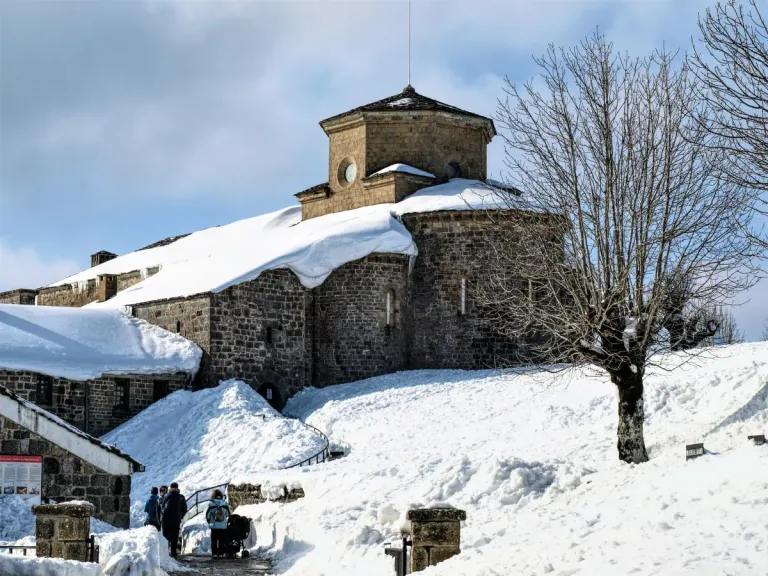
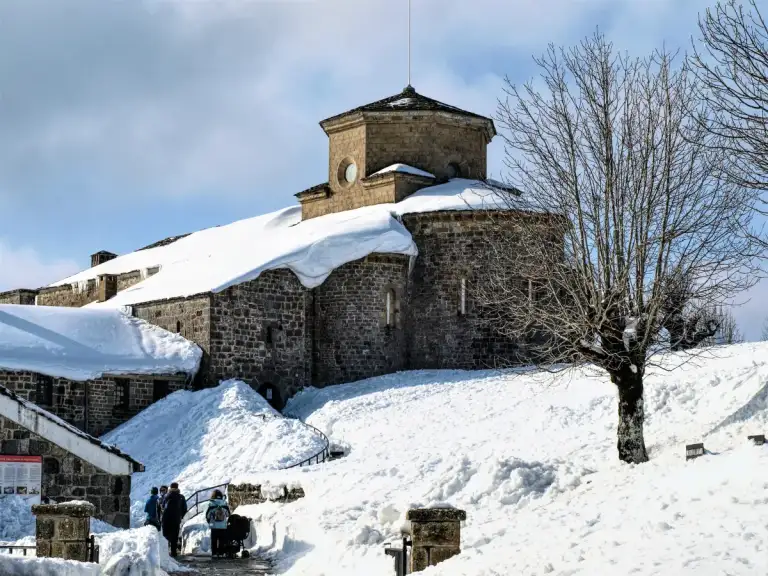
test progressive images

diff --git a/docs/.vitepress/theme/components/Image.vue b/docs/.vitepress/theme/components/Image.vue
@@ -5,6 +5,7 @@ const props = defineProps({
   src: { type: String, required: true },
   alt: { type: String, default: "" },
   index: { type: Number, default: 0 },
+  progressive: { type: Boolean, default: true },
   class: { type: String, default: "" },
 });
 
@@ -22,11 +23,34 @@ const srcset = computed(() =>
   /media/md/${basePath.value} 768w,
   /media/lg/${basePath.value} 1080w`.trim(),
 );
+
+function improveImage(e) {
+  const elem = e.target;
+  const img = new Image();
+
+  requestAnimationFrame(() => {
+    const width = elem.getBoundingClientRect().width;
+    if (width > 500) {
+      img.src = elem.src.replace("/sm/", "/md/");
+    } else if (width > 800) {
+      img.src = elem.src.replace("/sm/", "/lg/");
+    } else {
+      return;
+    }
+
+    img.onload = () => {
+      elem.src = img.src;
+    };
+  });
+}
 </script>
 
 <template>
   <!-- External or non-media image -->
   <img v-if="isExternal || !isMedia" :src="src" :alt="alt" :class="class" crossorigin="anonymous" :fetchpriority="index >= 1 ? 'low' : 'high'" :loading="index >= 1 ? 'lazy' : 'eager'" />
+
+  <!-- Progressive -->
+  <img v-else-if="progressive" @load.once="improveImage" :src="`/media/sm/${basePath}`" :alt="alt" :class="class" crossorigin="anonymous" :fetchpriority="index >= 1 ? 'low' : 'high'" :loading="index >= 1 ? 'lazy' : 'eager'" />
 
   <!-- Optimised local image -->
   <picture v-else>

diff --git a/docs/.vitepress/images.js b/docs/.vitepress/images.js
@@ -6,8 +6,8 @@ import path from "path";
 const MEDIA_DIR = path.resolve("docs/public/media");
 
 const SIZES = {
-  sm: { width: 480, quality: 60 },
-  md: { width: 768, quality: 70 },
+  sm: { width: 480, quality: 50 },
+  md: { width: 768, quality: 60 },
   lg: { width: 1080, quality: 90 },
 };
 
